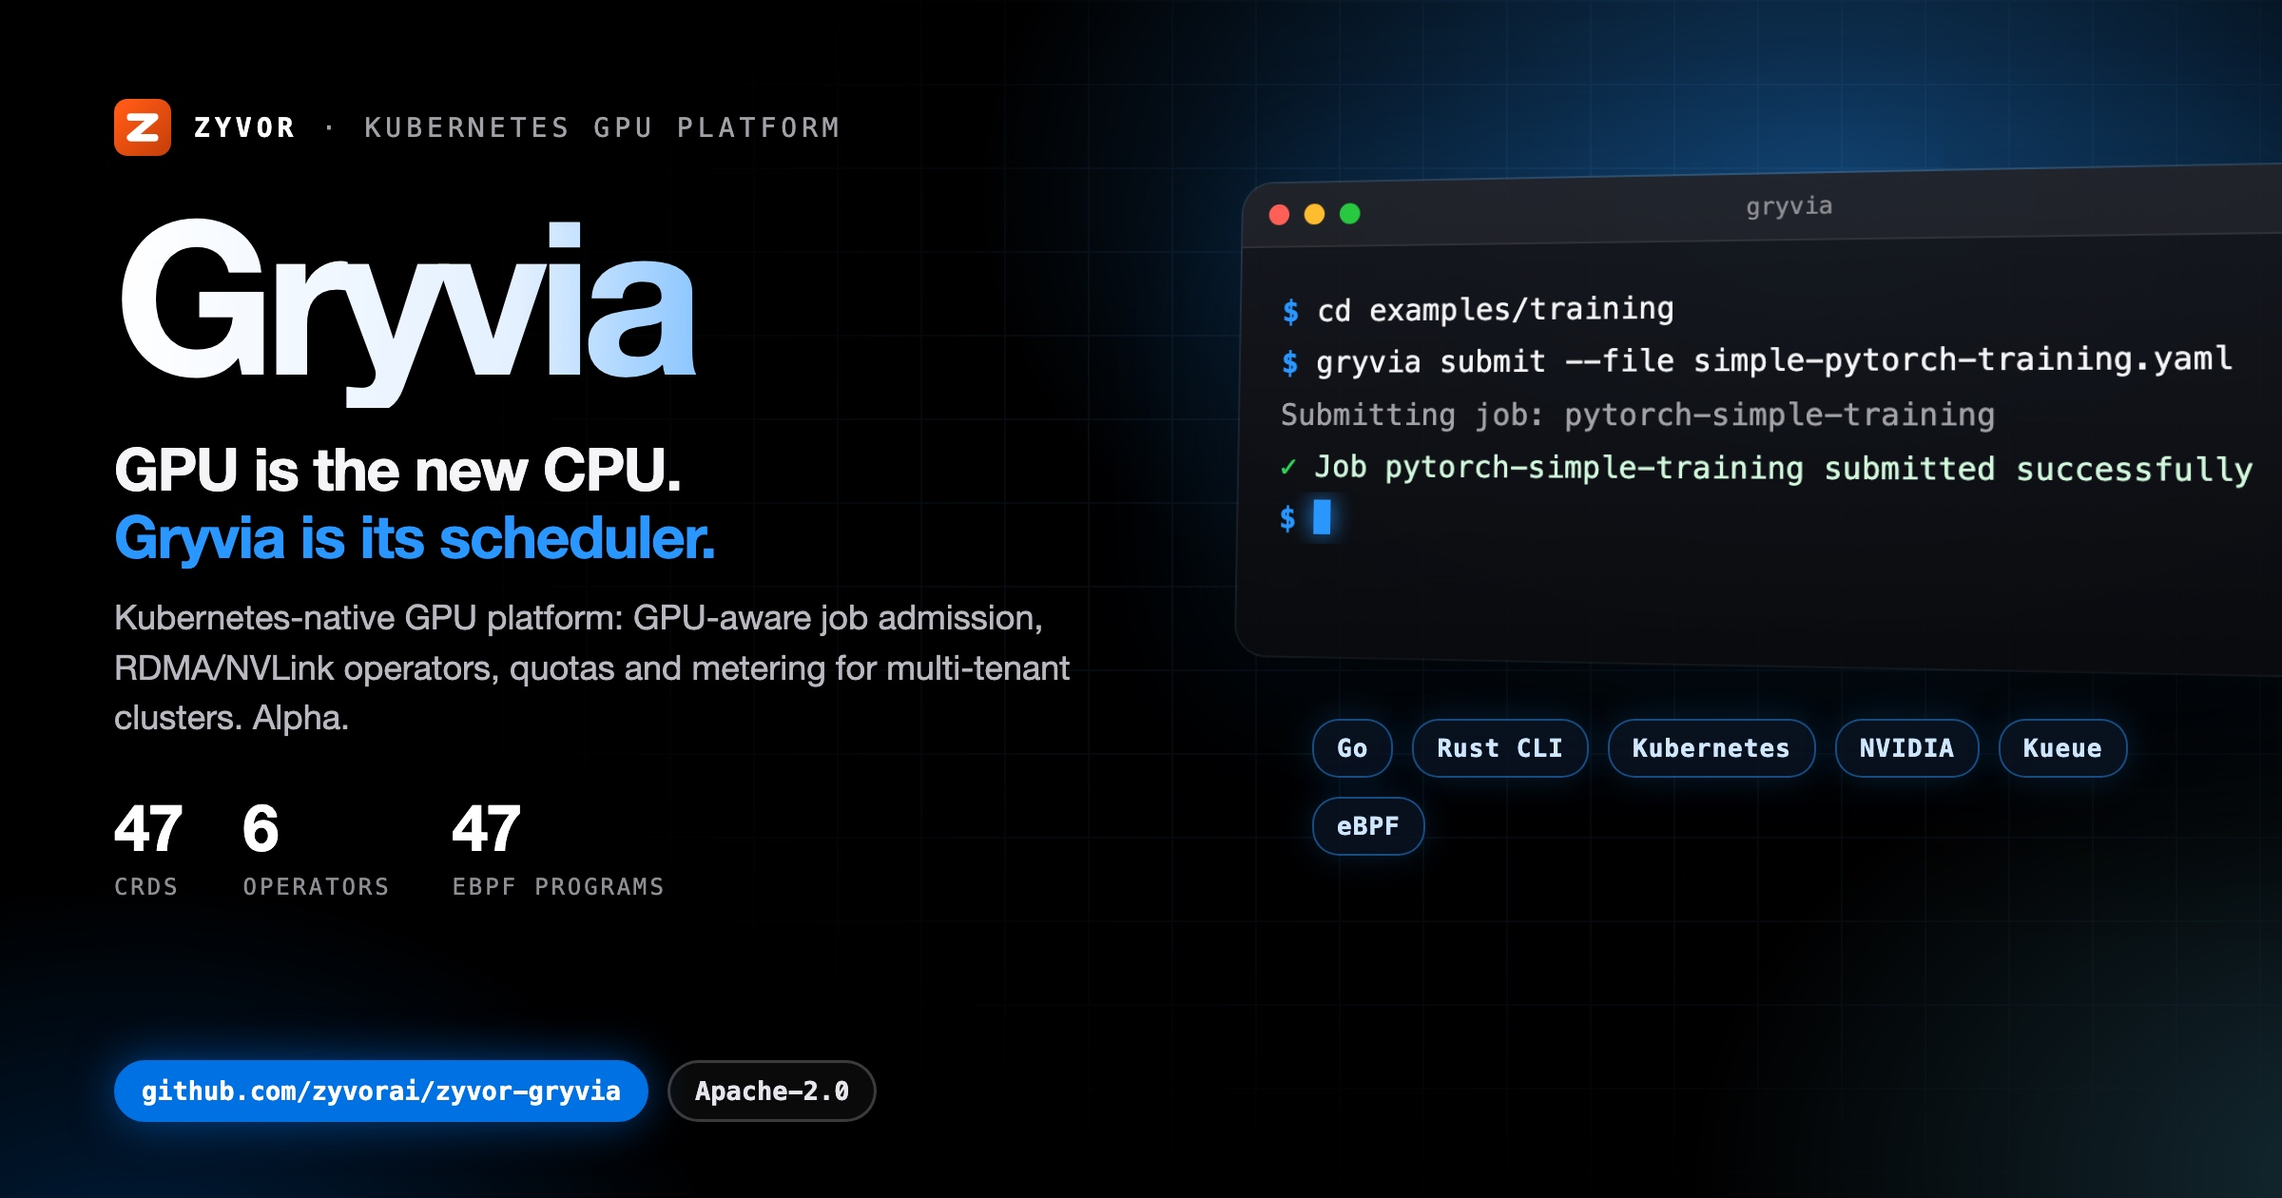
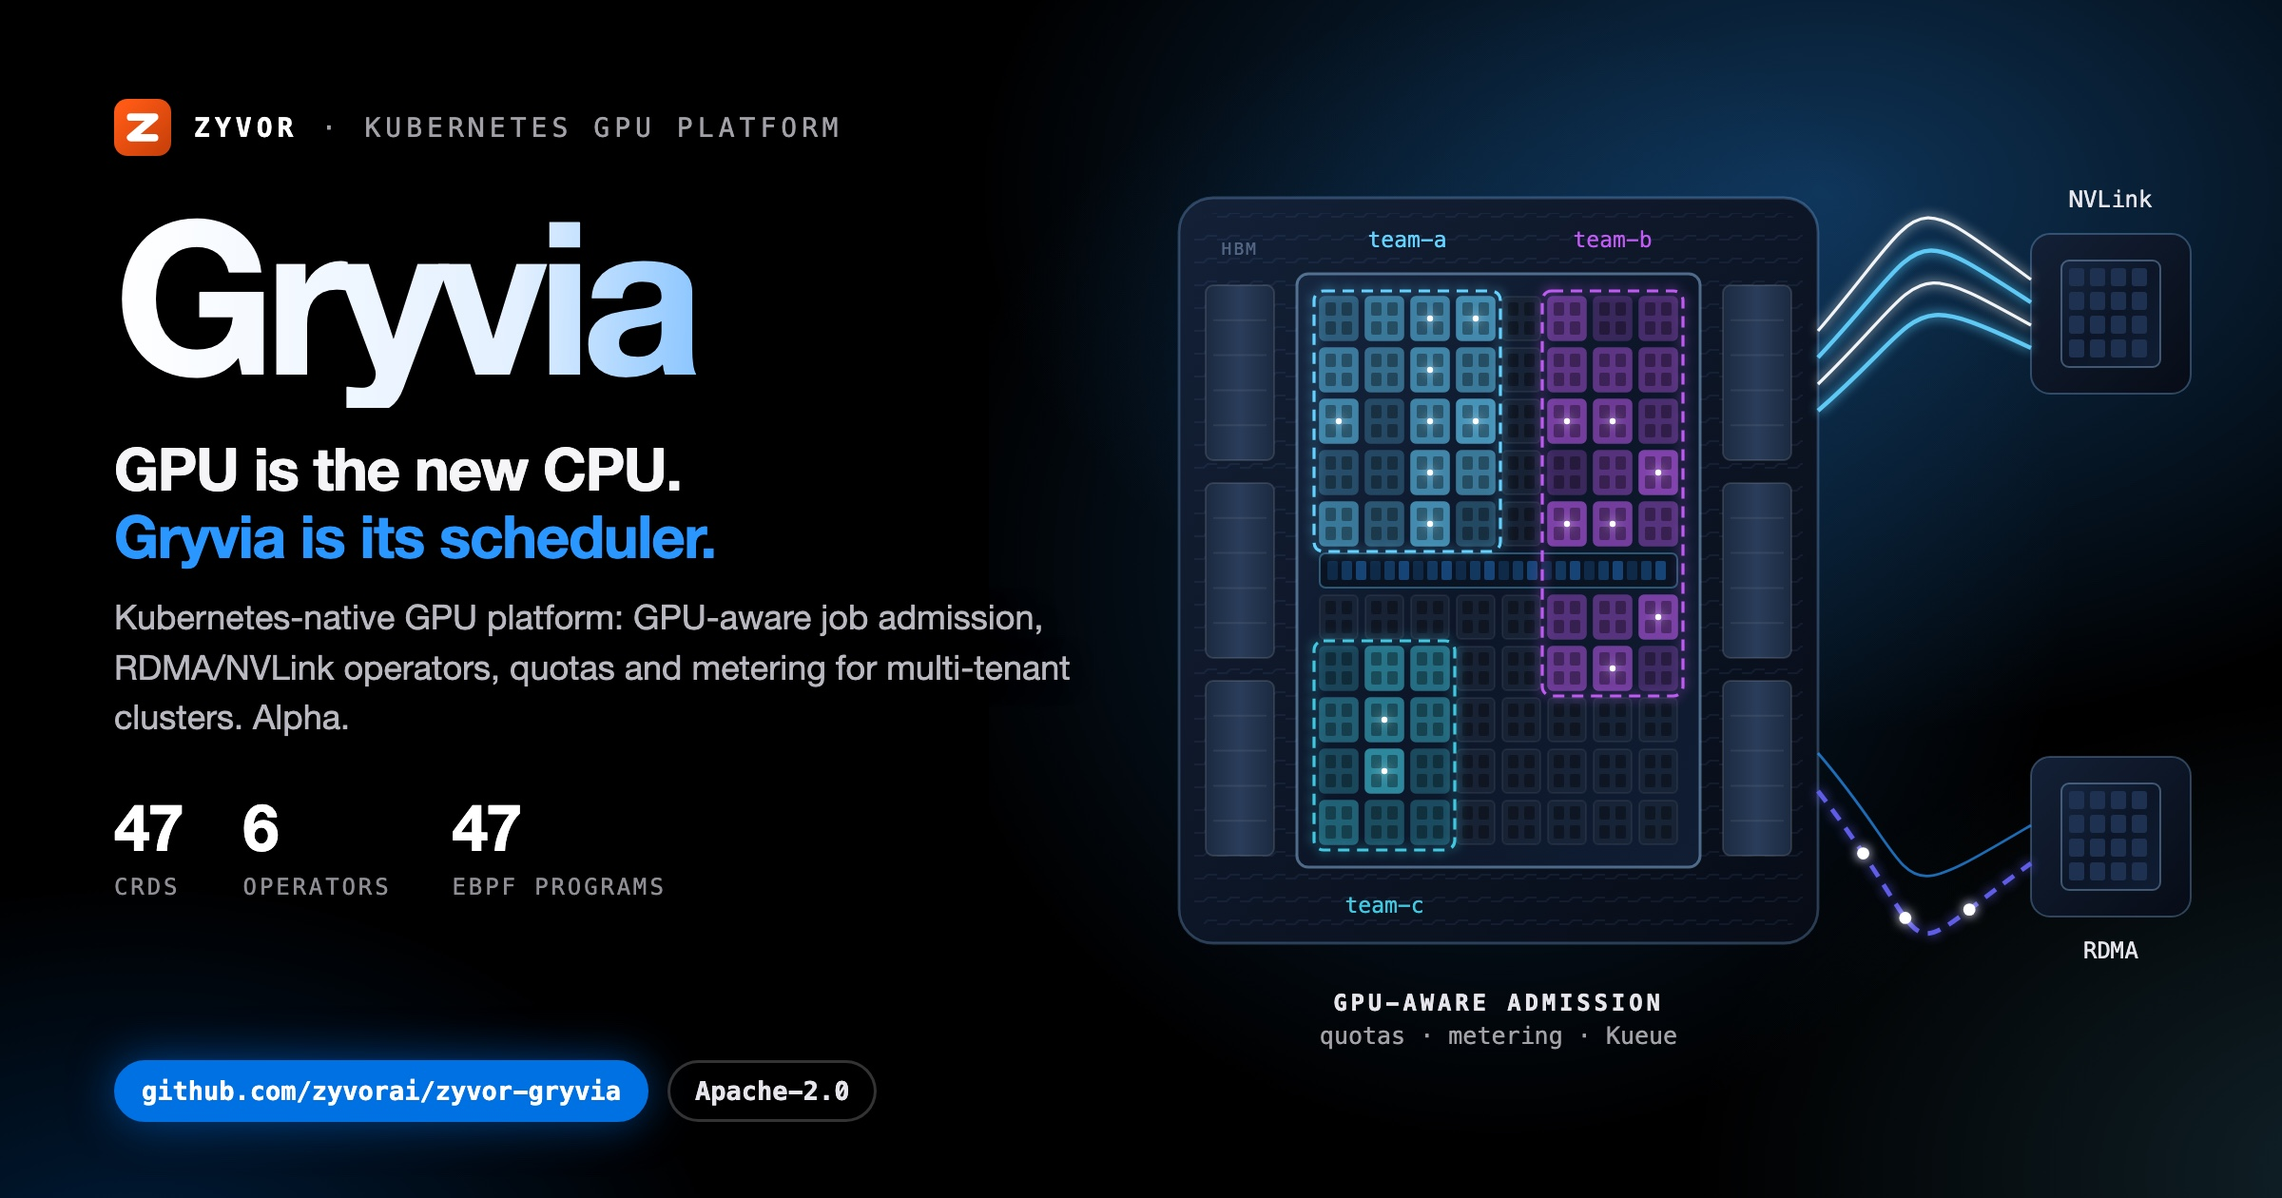
docs(social): unique illustrated hero card
Replace the shared terminal-window art with a motif drawn for this project;
same verified copy and stats on the left.

Changed region(s): [[0.5, 0.1238, 1.0, 0.8667], [0.9062, 0.7738, 0.9375, 0.8048]]

diff --git a/docs/social/gryvia-hero-dark.html b/docs/social/gryvia-hero-dark.html
@@ -8,58 +8,47 @@
   Build: ./docs/social/build-hero-dark.sh  ->  gryvia-hero-dark.jpg (2400x1260)
 -->
 <style>
-  :root { --blue:#0071e3; --signal:#2997ff; --cyan:#64d2ff; --green:#30d158; --amber:#ff9f0a;
+  :root { --blue:#0071e3; --signal:#2997ff; --cyan:#64d2ff; --green:#30d158; --amber:#ff9f0a; --red:#ff453a; --violet:#bf5af2;
     --sans:'SF Pro Display','Helvetica Neue',Helvetica,Arial,sans-serif; --mono:'SF Mono',Menlo,Consolas,monospace; }
   * { box-sizing:border-box; }
   html,body { margin:0; padding:0; }
   body { width:1200px; height:630px; overflow:hidden; color:#f5f5f7; font-family:var(--sans); position:relative; background:#000; }
   .aurora { position:absolute; inset:0;
-    background:radial-gradient(720px 460px at 80% 16%, rgba(41,151,255,.40), transparent 62%),
-               radial-gradient(600px 420px at 104% 98%, rgba(100,210,255,.20), transparent 60%),
+    background:radial-gradient(720px 460px at 80% 16%, rgba(41,151,255,.34), transparent 62%),
+               radial-gradient(600px 420px at 104% 98%, rgba(100,210,255,.16), transparent 60%),
                radial-gradient(520px 380px at 6% 110%, rgba(0,113,227,.28), transparent 60%); }
-  .grid { position:absolute; inset:0; opacity:.09;
-    background-image:linear-gradient(rgba(120,180,255,.9) 1px,transparent 1px),linear-gradient(90deg,rgba(120,180,255,.9) 1px,transparent 1px);
-    background-size:44px 44px; -webkit-mask-image:radial-gradient(900px 520px at 72% 42%, #000 18%, transparent 75%); }
-  .left { position:absolute; left:60px; top:52px; width:560px; z-index:3; }
+  .copy { position:absolute; left:60px; top:52px; width:560px; z-index:3; }
   .brand { display:flex; align-items:center; gap:12px; font-family:var(--mono); font-size:14px; letter-spacing:.18em; text-transform:uppercase; color:#a1a1a6; }
   .brand b { color:#fff; }
   .word { margin:20px 0 0; font-size:112px; line-height:.95; font-weight:800; letter-spacing:-.05em; white-space:nowrap;
     background:linear-gradient(92deg,#fff 0%,#e3f0ff 38%,var(--signal) 74%,var(--cyan) 100%); -webkit-background-clip:text; background-clip:text; color:transparent; padding-bottom:6px; }
   .tag { margin:14px 0 0; font-size:31px; line-height:1.15; font-weight:700; letter-spacing:-.02em; }
   .tag em { font-style:normal; color:var(--signal); }
-  .lede { margin:12px 0 0; font-size:18px; line-height:1.45; color:#b8b8bf; width:520px; }
+  .lede { margin:12px 0 0; font-size:18px; line-height:1.45; color:#b8b8bf; width:520px; text-shadow:0 1px 12px #000; }
   .stats { margin-top:24px; display:flex; gap:32px; }
   .stat b { display:block; font-size:34px; font-weight:800; letter-spacing:-.03em; color:#fff; }
   .stat span { font-family:var(--mono); font-size:12px; letter-spacing:.12em; text-transform:uppercase; color:#8e8e93; }
   .pill { position:absolute; left:60px; bottom:40px; display:flex; gap:10px; z-index:3; }
-  .pill span { font-family:var(--mono); font-size:13.5px; font-weight:700; padding:7px 13px; border-radius:18px; border:1.5px solid rgba(255,255,255,.2); color:#e5e5ea; background:rgba(255,255,255,.04); }
+  .pill span { font-family:var(--mono); font-size:13.5px; font-weight:700; padding:7px 13px; border-radius:18px; border:1.5px solid rgba(255,255,255,.2); color:#e5e5ea; background:rgba(0,0,0,.6); }
   .pill span.b { background:var(--blue); border-color:var(--blue); color:#fff; box-shadow:0 0 24px rgba(0,113,227,.55); }
-
-  .right { position:absolute; left:652px; top:96px; width:560px; z-index:2; }
-  .win { position:relative; width:560px; border-radius:16px; overflow:hidden; z-index:2;
-    background:linear-gradient(180deg, rgba(22,24,30,.94), rgba(10,11,14,.96));
-    box-shadow:0 50px 100px rgba(0,0,0,.75), 0 0 0 1px rgba(255,255,255,.14), 0 0 90px rgba(41,151,255,.22);
-    transform:perspective(1600px) rotateY(-14deg) rotateX(4deg); transform-origin:left center; }
-  .bar { height:34px; display:flex; align-items:center; gap:8px; padding:0 14px; background:rgba(255,255,255,.05); border-bottom:1px solid rgba(255,255,255,.07); }
-  .bar i { width:11px; height:11px; border-radius:50%; background:#ff5f57; } .bar i:nth-child(2){background:#febc2e} .bar i:nth-child(3){background:#28c840}
-  .bar em { margin-left:auto; margin-right:auto; font-style:normal; font-family:var(--mono); font-size:12px; color:#8e8e93; transform:translateX(-24px); }
-  .term { min-height:214px; padding:20px 22px 24px; font-family:var(--mono); font-size:15.5px; line-height:1.75; }
-  .l { white-space:pre; overflow:hidden; text-overflow:ellipsis; color:#f5f5f7; }
-  .l .p { color:var(--signal); font-weight:700; }
-  .l.out { color:#a1a1a6; }
-  .l.cm { color:#6e6e73; }
-  .l.ok { color:#d1f7dc; } .l.ok span { color:var(--green); font-weight:700; }
-  .l.warn { color:#ffe1b0; } .l.warn span { color:var(--amber); font-weight:700; }
-  .cur { display:inline-block; width:9px; height:18px; background:var(--signal); vertical-align:-3px; box-shadow:0 0 12px var(--signal); }
-  .chips { margin:34px 0 0 38px; width:480px; display:flex; flex-wrap:wrap; gap:10px; position:relative; z-index:3; }
-  .chips span { font-family:var(--mono); font-size:13px; font-weight:700; letter-spacing:.04em; padding:7px 12px; border-radius:14px;
-    color:#cfe6ff; background:rgba(10,20,35,.82); border:1px solid rgba(41,151,255,.45); box-shadow:0 0 18px rgba(41,151,255,.18); }
+  .art { position:absolute; left:520px; top:0; width:680px; height:630px; z-index:2; }
+  .art svg { display:block; }
+  #labels { position:absolute; inset:0; z-index:4; pointer-events:none; }
+  .lbl { position:absolute; font-family:var(--mono); font-size:12.5px; color:#a1a1a6; text-align:center; transform:translate(-50%,-50%); white-space:nowrap; }
+  .lbl b { display:block; font-size:12px; letter-spacing:.16em; text-transform:uppercase; color:#e5e5ea; }
+  .lbl span { display:block; margin-top:3px; }
+  .lbl.box { padding:7px 12px; border-radius:12px; background:rgba(8,10,14,.85); border:1px solid rgba(255,255,255,.14); }
+  .lbl.chip { padding:6px 11px; border-radius:13px; font-size:12.5px; font-weight:700; color:#cfe6ff; background:rgba(10,20,35,.85); border:1px solid rgba(41,151,255,.5); box-shadow:0 0 16px rgba(41,151,255,.2); }
+  .lbl.left { transform:translate(0,-50%); text-align:left; }
+  .lbl.right { transform:translate(-100%,-50%); text-align:right; }
+  .ok { color:var(--green) !important; } .warn { color:var(--amber) !important; } .bad { color:var(--red) !important; } .sig { color:var(--signal) !important; } .cy { color:var(--cyan) !important; } .vi { color:var(--violet) !important; }
 </style>
 </head>
 <body>
 <div class="aurora"></div>
-<div class="grid"></div>
-<div class="left">
+<div class="art"><svg id="art" width="680" height="630" viewBox="0 0 680 630" xmlns="http://www.w3.org/2000/svg"></svg></div>
+<div id="labels"></div>
+<div class="copy">
   <div class="brand"><svg viewBox="0 0 64 64" width="30" height="30" aria-hidden="true"><defs><linearGradient id="zb" x1="8" y1="8" x2="56" y2="56" gradientUnits="userSpaceOnUse"><stop offset="0" stop-color="#ff5a15"/><stop offset="1" stop-color="#cc420a"/></linearGradient></defs><rect width="64" height="64" rx="15" fill="url(#zb)"/><path d="M18.5,20.5 45.5,20.5 18.5,43.5 45.5,43.5" fill="none" stroke="#fff" stroke-width="8.3" stroke-linecap="round" stroke-linejoin="round"/></svg><b>Zyvor</b><span>&middot;</span><span>Kubernetes GPU platform</span></div>
   <div class="word">Gryvia</div>
   <div class="tag">GPU is the new CPU.<br><em>Gryvia is its scheduler.</em></div>
@@ -67,8 +56,114 @@
   <div class="stats"><div class="stat"><b>47</b><span>CRDs</span></div><div class="stat"><b>6</b><span>operators</span></div><div class="stat"><b>47</b><span>eBPF programs</span></div></div>
 </div>
 <div class="pill"><span class="b">github.com/zyvorai/zyvor-gryvia</span><span>Apache-2.0</span></div>
-<div class="right"><div class="win"><div class="bar"><i></i><i></i><i></i><em>gryvia</em></div>
-<div class="term"><div class="l"><span class="p">$</span> cd examples/training</div><div class="l"><span class="p">$</span> gryvia submit --file simple-pytorch-training.yaml</div><div class="l out">Submitting job: pytorch-simple-training</div><div class="l ok"><span>&#10003;</span> Job pytorch-simple-training submitted successfully</div><div class="l"><span class="p">$</span> <i class="cur"></i></div></div></div>
-<div class="chips"><span>Go</span><span>Rust CLI</span><span>Kubernetes</span><span>NVIDIA</span><span>Kueue</span><span>eBPF</span></div></div>
+<script>
+var Z = (function () {
+  var NS = 'http://www.w3.org/2000/svg', svg = document.getElementById('art'), labels = document.getElementById('labels');
+  var seed = 20261004;
+  function rnd() { seed = (seed * 1103515245 + 12345) % 2147483648; return seed / 2147483648; }
+  function el(tag, a, parent) { var n = document.createElementNS(NS, tag); for (var k in a) n.setAttribute(k, a[k]); (parent || svg).appendChild(n); return n; }
+  function g(attrs) { return el('g', attrs || {}); }
+  function label(x, y, inner, cls, style) { var d = document.createElement('div'); d.className = 'lbl ' + (cls || ''); d.style.left = (520 + x) + 'px'; d.style.top = y + 'px'; if (style) d.setAttribute('style', d.getAttribute('style') + ';' + style); d.innerHTML = inner; labels.appendChild(d); return d; }
+  return { NS: NS, svg: svg, W: 680, H: 630, rnd: rnd, el: el, g: g, label: label,
+    reseed: function (s) { seed = s; },
+    c: { blue: '#0071e3', signal: '#2997ff', cyan: '#64d2ff', green: '#30d158', amber: '#ff9f0a', red: '#ff453a', violet: '#bf5af2', teal: '#40c8e0', indigo: '#5e5ce6', pink: '#ff375f', white: '#f5f5f7', grey: '#8e8e93' } };
+})();
+(function () {
+// Gryvia: GPU die floorplan. SM core grid with tenant quota regions; NVLink and RDMA bridges arc out to peer GPUs.
+var C = Z.c;
+var defs = Z.el('defs', {});
+defs.innerHTML = '<filter id="gvGl" filterUnits="userSpaceOnUse" x="-50" y="-50" width="780" height="730"><feGaussianBlur stdDeviation="3" result="b"/><feMerge><feMergeNode in="b"/><feMergeNode in="SourceGraphic"/></feMerge></filter>' +
+  '<filter id="gvSf" filterUnits="userSpaceOnUse" x="-50" y="-50" width="780" height="730"><feGaussianBlur stdDeviation="14"/></filter>' +
+  '<linearGradient id="gvSub" x1="0" y1="0" x2="1" y2="1"><stop offset="0" stop-color="#132036"/><stop offset="1" stop-color="#070c16"/></linearGradient>' +
+  '<linearGradient id="gvDie" x1="0" y1="0" x2="1" y2="1"><stop offset="0" stop-color="#16263f"/><stop offset=".5" stop-color="#0c1628"/><stop offset="1" stop-color="#101d33"/></linearGradient>' +
+  '<linearGradient id="gvHbm" x1="0" y1="0" x2="1" y2="0"><stop offset="0" stop-color="#1b2a40"/><stop offset=".5" stop-color="#2a3d5a"/><stop offset="1" stop-color="#1b2a40"/></linearGradient>' +
+  '<radialGradient id="gvHalo"><stop offset="0" stop-color="#2997ff" stop-opacity=".5"/><stop offset="1" stop-color="#2997ff" stop-opacity="0"/></radialGradient>' +
+  '<pattern id="gvTr" width="12" height="12" patternUnits="userSpaceOnUse"><path d="M0,6 h5 l2,-2 h5" fill="none" stroke="rgba(120,170,255,.08)" stroke-width="1"/></pattern>';
+
+// package substrate
+var PX = 100, PY = 104, PW = 336, PH = 392;
+Z.el('ellipse', { cx: PX + PW / 2, cy: PY + PH / 2, rx: 300, ry: 300, fill: 'url(#gvHalo)', opacity: .45 });
+Z.el('rect', { x: PX, y: PY, width: PW, height: PH, rx: 18, fill: 'url(#gvSub)', stroke: 'rgba(140,195,255,.28)', 'stroke-width': 1.4 });
+Z.el('rect', { x: PX + 8, y: PY + 8, width: PW - 16, height: PH - 16, rx: 12, fill: 'url(#gvTr)' });
+// HBM stacks left and right of the die
+var DX = PX + 62, DY = PY + 40, DW = PW - 124, DH = PH - 80;
+for (var k = 0; k < 3; k++) {
+  [PX + 14, PX + PW - 50].forEach(function (hx) {
+    var hy = DY + 6 + k * (DH / 3);
+    Z.el('rect', { x: hx, y: hy, width: 36, height: DH / 3 - 12, rx: 4, fill: 'url(#gvHbm)', stroke: 'rgba(255,255,255,.12)' });
+    for (var l = 1; l < 5; l++) Z.el('line', { x1: hx + 4, y1: hy + l * (DH / 3 - 12) / 5, x2: hx + 32, y2: hy + l * (DH / 3 - 12) / 5, stroke: 'rgba(255,255,255,.07)' });
+  });
+}
+Z.el('text', { x: PX + 32, y: DY - 10, 'text-anchor': 'middle', 'font-family': 'ui-monospace,Menlo,monospace', 'font-size': 9, fill: 'rgba(160,190,230,.45)', 'letter-spacing': '.12em' }).textContent = 'HBM';
+// die
+Z.el('rect', { x: DX, y: DY, width: DW, height: DH, rx: 6, fill: 'url(#gvDie)', stroke: 'rgba(160,210,255,.45)', 'stroke-width': 1.5 });
+
+// SM grid: two halves around a central L2 strip
+var COLS = 8, ROWS = 10, gx = DX + 12, gw = DW - 24, cw = (gw - (COLS - 1) * 4) / COLS;
+var l2y = DY + DH / 2 - 9, ch = ((DH - 24 - 18 - 8) / 2 - (ROWS / 2 - 1) * 4) / (ROWS / 2);
+var cells = [];
+for (var r = 0; r < ROWS; r++) for (var c = 0; c < COLS; c++) {
+  var half = r < ROWS / 2 ? 0 : 1, rr = r % (ROWS / 2);
+  var x = gx + c * (cw + 4), y = (half ? l2y + 22 : DY + 12) + rr * (ch + 4);
+  cells.push({ x: x, y: y, r: r, c: c });
+}
+// tenant quota regions (cells by column/row ranges)
+var tenants = [
+  { n: 'team-a', col: C.cyan, f: function (p) { return p.c < 4 && p.r < 5; } },
+  { n: 'team-b', col: C.violet, f: function (p) { return p.c >= 5 && p.r < 7; } },
+  { n: 'team-c', col: C.teal, f: function (p) { return p.c < 3 && p.r >= 6; } }
+];
+cells.forEach(function (p) {
+  var t = null;
+  tenants.forEach(function (tn) { if (!t && tn.f(p)) t = tn; });
+  var busy = Z.rnd();
+  Z.el('rect', { x: p.x, y: p.y, width: cw, height: ch, rx: 2.5, fill: t ? t.col : '#1a2638', opacity: t ? (.22 + busy * .45).toFixed(2) : .8, stroke: t ? t.col : 'rgba(255,255,255,.08)', 'stroke-width': t ? .8 : 1 });
+  // SM internals: four tensor-core blocks
+  for (var q = 0; q < 4; q++) Z.el('rect', { x: p.x + 3 + (q % 2) * (cw / 2 - 1.5), y: p.y + 3 + Math.floor(q / 2) * (ch / 2 - 1.5), width: cw / 2 - 4.5, height: ch / 2 - 4.5, rx: 1, fill: 'rgba(0,0,0,.35)' });
+  if (t && busy > .7) Z.el('circle', { cx: p.x + cw / 2, cy: p.y + ch / 2, r: 1.6, fill: '#fff', filter: 'url(#gvGl)' });
+});
+// quota region outlines
+function outline(tn) {
+  var sel = cells.filter(tn.f), x0 = 1e9, y0 = 1e9, x1 = -1e9, y1 = -1e9;
+  sel.forEach(function (p) { x0 = Math.min(x0, p.x); y0 = Math.min(y0, p.y); x1 = Math.max(x1, p.x + cw); y1 = Math.max(y1, p.y + ch); });
+  return { x: x0 - 3, y: y0 - 3, w: x1 - x0 + 6, h: y1 - y0 + 6 };
+}
+// L2 strip
+Z.el('rect', { x: gx, y: l2y, width: gw, height: 18, rx: 3, fill: '#0a1322', stroke: 'rgba(100,210,255,.35)' });
+for (var i = 0; i < 24; i++) Z.el('rect', { x: gx + 4 + i * (gw - 8) / 24, y: l2y + 4, width: (gw - 8) / 24 - 2, height: 10, rx: 1, fill: C.signal, opacity: .18 + .2 * ((i * 7) % 3) / 2 });
+var boxes = tenants.map(function (tn) {
+  var ob = outline(tn);
+  Z.el('rect', { x: ob.x, y: ob.y, width: ob.w, height: ob.h, rx: 5, fill: 'none', stroke: tn.col, 'stroke-width': 1.6, 'stroke-dasharray': '6 4', filter: 'url(#gvGl)' });
+  return ob;
+});
+
+// peer GPUs on the right
+var peers = [{ x: 590, y: 165, s: 84 }, { x: 590, y: 440, s: 84 }];
+peers.forEach(function (pg) {
+  Z.el('rect', { x: pg.x - pg.s / 2, y: pg.y - pg.s / 2, width: pg.s, height: pg.s, rx: 10, fill: 'url(#gvSub)', stroke: 'rgba(140,195,255,.3)' });
+  Z.el('rect', { x: pg.x - pg.s / 2 + 16, y: pg.y - pg.s / 2 + 14, width: pg.s - 32, height: pg.s - 28, rx: 4, fill: 'url(#gvDie)', stroke: 'rgba(160,210,255,.35)' });
+  for (var r = 0; r < 4; r++) for (var c = 0; c < 4; c++) Z.el('rect', { x: pg.x - pg.s / 2 + 20 + c * 11, y: pg.y - pg.s / 2 + 18 + r * 12.5, width: 8, height: 9.5, rx: 1.5, fill: '#1f3150' });
+});
+// NVLink: bundle of bright arcs to upper peer
+var ex = PX + PW, top = peers[0];
+for (var b = 0; b < 4; b++) {
+  var y0 = PY + 70 + b * 14, y1 = top.y - 18 + b * 12;
+  Z.el('path', { d: 'M' + ex + ',' + y0 + ' C' + (ex + 60) + ',' + (y0 - 70 + b * 6) + ' ' + (top.x - 110) + ',' + (y1 - 50 + b * 6) + ' ' + (top.x - top.s / 2) + ',' + y1, fill: 'none', stroke: b % 2 ? C.cyan : '#fff', 'stroke-width': b % 2 ? 2.2 : 1.6, opacity: .95, filter: 'url(#gvGl)' });
+}
+// RDMA: dashed wide arc to lower peer, with packet dots
+var bot = peers[1];
+var rd = Z.el('path', { d: 'M' + ex + ',' + (PY + PH - 80) + ' C' + (ex + 70) + ',' + (PY + PH + 10) + ' ' + (bot.x - 120) + ',' + (bot.y + 70) + ' ' + (bot.x - bot.s / 2) + ',' + (bot.y + 14), fill: 'none', stroke: C.indigo, 'stroke-width': 2.4, 'stroke-dasharray': '7 5', filter: 'url(#gvGl)' });
+Z.el('path', { d: 'M' + ex + ',' + (PY + PH - 100) + ' C' + (ex + 60) + ',' + (PY + PH - 30) + ' ' + (bot.x - 120) + ',' + (bot.y + 40) + ' ' + (bot.x - bot.s / 2) + ',' + (bot.y - 6), fill: 'none', stroke: C.signal, 'stroke-width': 1.4, opacity: .7 });
+var len = rd.getTotalLength();
+[.25, .5, .75].forEach(function (f) { var pt = rd.getPointAtLength(len * f); Z.el('circle', { cx: pt.x, cy: pt.y, r: 3.2, fill: '#fff', filter: 'url(#gvGl)' }); });
+
+Z.label(boxes[0].x + boxes[0].w / 2, PY + 22, 'team-a', '', 'font-size:11.5px;color:' + C.cyan);
+Z.label(boxes[1].x + boxes[1].w / 2, PY + 22, 'team-b', '', 'font-size:11.5px;color:' + C.violet);
+Z.label(boxes[2].x + boxes[2].w / 2, PY + PH - 20, 'team-c', '', 'font-size:11.5px;color:' + C.teal);
+Z.label(top.x, top.y - top.s / 2 - 18, 'NVLink', '', 'color:#e5e5ea;font-size:12px');
+Z.label(bot.x, bot.y + bot.s / 2 + 18, 'RDMA', '', 'color:#e5e5ea;font-size:12px');
+Z.label(PX + PW / 2, PY + PH + 40, '<b>GPU-aware admission</b><span>quotas &middot; metering &middot; Kueue</span>');
+})();
+</script>
 </body>
 </html>
